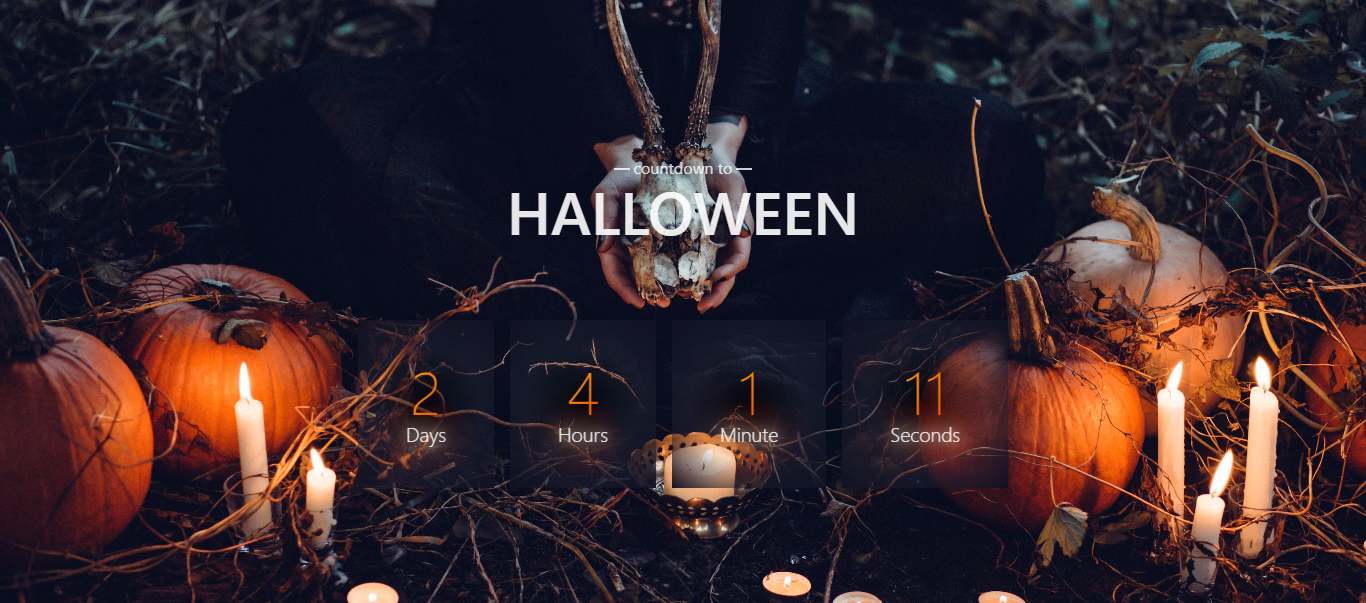
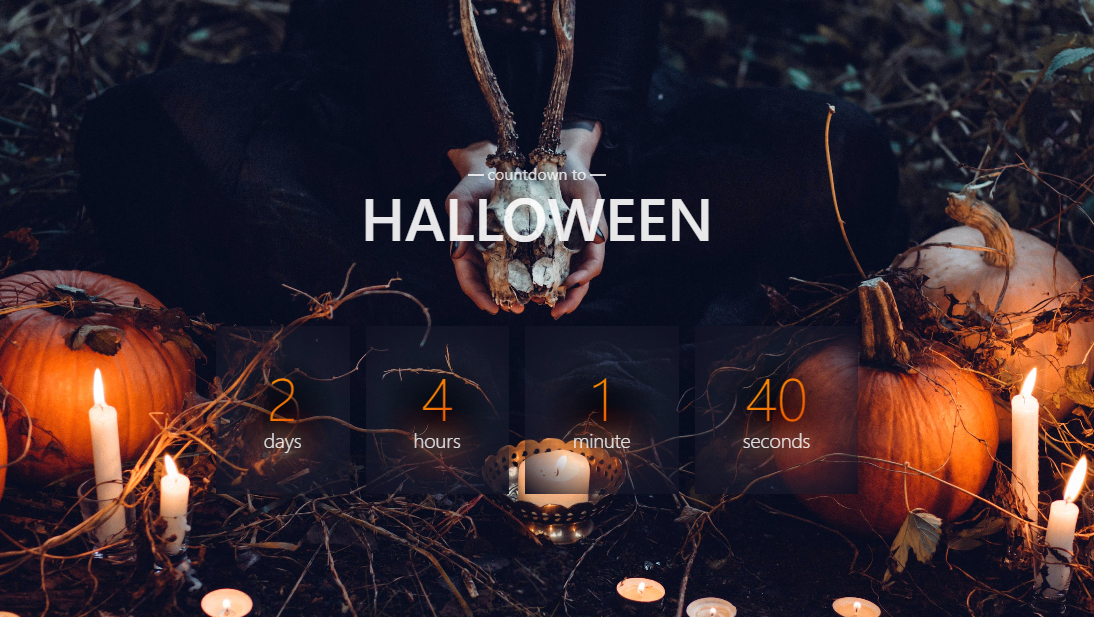
Fixed the height issues for cards

diff --git a/index.html b/index.html
@@ -88,7 +88,7 @@
         <h3>Mobile screen designs</h3>
         <section class="grid-wrapper">
             <div class="item">
-                <div class="img-wrapper">
+                <div class="img-wrapper-mobile">
                     <img src="./Assets/Reviews2-preview.PNG" alt="Reviews2-preview">
                 </div>
                 <h4>Reviews 2</h4>
@@ -100,7 +100,7 @@
             </div>
 
             <div class="item">
-                <div class="img-wrapper">
+                <div class="img-wrapper-mobile">
                     <img src="./Assets/AppNotifications-preview.PNG" alt="AppNotifications-preview">
                 </div>
                 <h4>App Notifications</h4>

diff --git a/styles.css b/styles.css
@@ -75,15 +75,33 @@ main{
     background-color:var(--c5);
 }
 .img-wrapper{
-    height:auto;
+    height:15em;
     width:100%;
     margin:0 0 16px 0;
+    display: flex;
+    justify-content: center;
+    align-items: center;
+    overflow: hidden;
+}
+
+.img-wrapper-mobile{
+    height:15em;
+    width:100%;
+    margin:0 0 16px 0;
+    display: flex;
+    justify-content: center;
+    align-items: center;
+    overflow: hidden;
 }
 
 img{
-    width:100%;
+    /* width:100%;
     height:100%;
-    object-fit:contain;
+    object-fit:contain; */
+    max-width: 100%;
+    max-height: 100%;
+    width: auto;
+    height: auto;
 }
 
 .item-action{

diff --git a/HalloweenCountdown/main.js b/HalloweenCountdown/main.js
@@ -40,7 +40,7 @@ function updateCountdown() {
     document.getElementById("dy").textContent = days;
     document.getElementById("hr").textContent = hours;
     document.getElementById("min").textContent = minutes;
-    document.getElementById("sec").textContent = seconds;
+    document.getElementById("sec0").textContent = seconds;
 
     // Update the text based on the remaining time
     document.getElementById("dy-txt").textContent = days === 1 ? "Day" : "Days";
